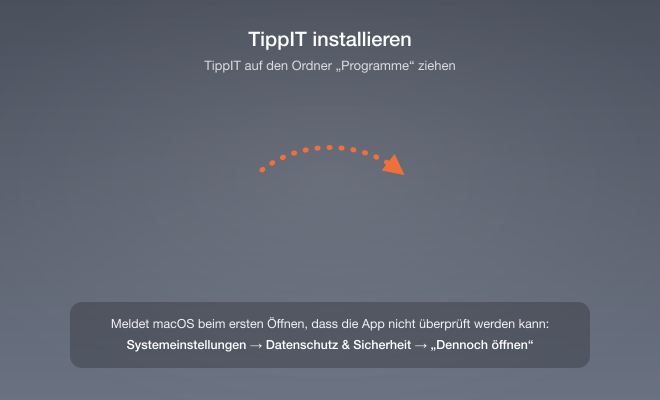
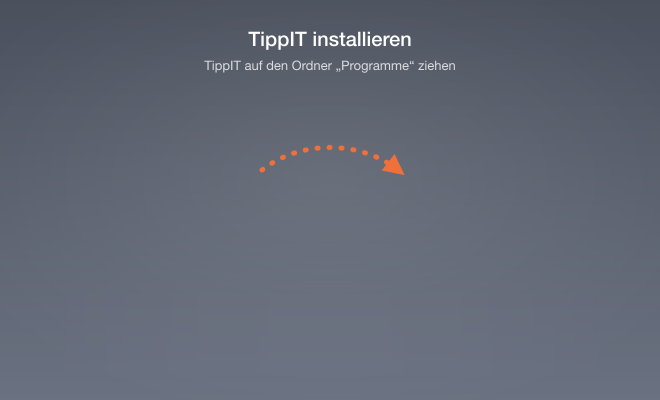
feat(mac): Releases mit Developer ID signieren und notarisieren
bundle-macos signiert App und DMG mit der Developer ID (Hardened Runtime,
keine Entitlements), notarisiert und heftet die Tickets an und prueft App,
Update-Tarball und DMG. Secrets wie in Xuoon/boats im Environment release.

Uebergang: Der Tauri-Updater prueft nur die minisign-Signatur, ad-hoc-
Installationen bekommen das Update normal. "Freigeben" entfernt vorher
einen nicht greifenden Bedienungshilfen-Eintrag und ersetzt "Reparieren".
Der Hinweis "Dennoch oeffnen" verschwindet aus README und DMG-Hintergrund.

Changed region(s): [[0.0909, 0.75, 0.9091, 0.93]]

diff --git a/src/lib/components/settings/permissions-pane.svelte b/src/lib/components/settings/permissions-pane.svelte
@@ -7,7 +7,6 @@
     type PermissionStatus,
     permissionStatus,
     requestInputPermission,
-    resetInputPermission,
   } from "#lib/api.ts";
   import Icon from "#lib/icon.svelte";
 
@@ -85,18 +84,19 @@
     }
   }
 
-  const request = () => run(requestInputPermission);
-  const openSettings = () => run(openPermissionSettings);
-  const openClipboard = () => run(openClipboardSettings);
-  const repair = () =>
+  // Entfernt vorher einen nicht greifenden Eintrag (alte Signatur), siehe
+  // `permissions::request_input_permission`.
+  const request = () =>
     run(async () => {
       repairError = "";
       try {
-        await resetInputPermission();
+        await requestInputPermission();
       } catch (e) {
         repairError = String(e);
       }
     });
+  const openSettings = () => run(openPermissionSettings);
+  const openClipboard = () => run(openClipboardSettings);
 
   async function copy(text: string) {
     copyFailed = false;
@@ -187,15 +187,6 @@
         </span>
         <button class="btn" disabled={busy} onclick={openSettings} type="button">
           <Icon name="external" size={14} />Öffnen
-        </button>
-      </div>
-      <div class="row">
-        <span class="row-label">
-          Eintrag reparieren
-          <span class="row-hint">Wenn TippIT dort „An“ steht und trotzdem nicht tippt</span>
-        </span>
-        <button class="btn" disabled={busy} onclick={repair} type="button">
-          <Icon name="restore" size={14} />Reparieren
         </button>
       </div>
       {#if repairError}

diff --git a/src/lib/api.ts b/src/lib/api.ts
@@ -371,7 +371,11 @@ export interface PermissionStatus {
 export const permissionStatus = () =>
   invoke<PermissionStatus>("permission_status");
 
-/** Löst den Systemdialog der Bedienungshilfen aus; liefert den aktuellen Status. */
+/**
+ * Entfernt einen nicht greifenden Bedienungshilfen-Eintrag und löst den
+ * Systemdialog aus; liefert den aktuellen Status. Wirft, wenn das Entfernen
+ * scheitert (der Dialog kam trotzdem).
+ */
 export const requestInputPermission = () =>
   invoke<boolean>("request_input_permission");
 
@@ -382,8 +386,5 @@ export const openPermissionSettings = () =>
 export const openClipboardSettings = () =>
   invoke<void>("open_clipboard_settings");
 
-/** Veralteten Bedienungshilfen-Eintrag entfernen und neu anfragen. */
-export const resetInputPermission = () =>
-  invoke<boolean>("reset_input_permission");
 export const updateWindowReady = () => invoke<void>("update_window_ready");
 export const closeUpdateWindow = () => invoke<void>("close_update_window");

diff --git a/src-tauri/src/platform/mac.rs b/src-tauri/src/platform/mac.rs
@@ -403,9 +403,10 @@ pub fn open_clipboard_permission_settings() -> anyhow::Result<()> {
     open_external("x-apple.systempreferences:com.apple.settings.PrivacySecurity.extension")
 }
 
-/// Veralteten Bedienungshilfen-Eintrag entfernen. Nach einem Update oder
-/// Rebuild steht TippIT dort oft noch auf „An", der Eintrag gilt aber für den
-/// alten Code-Hash; erst ein Reset lässt macOS neu fragen.
+/// Bedienungshilfen-Eintrag entfernen. Ein Eintrag aus einer anderen Signatur
+/// steht noch auf „An", gilt aber nicht für den laufenden Code; erst ohne ihn
+/// fragt macOS neu. Ad-hoc-signiert hängt er am Code-Hash und veraltet mit
+/// jedem Build, mit Developer ID an Team und Bundle-ID und übersteht Updates.
 pub fn reset_input_permission(bundle_id: &str) -> anyhow::Result<()> {
     let output = std::process::Command::new("/usr/bin/tccutil")
         .args(["reset", "Accessibility", bundle_id])
@@ -1148,11 +1149,12 @@ fn tone_wav(freq: u32, duration_ms: u32) -> Vec<u8> {
 // Schlüsselschutz at-rest
 // ---------------------------------------------------------------------------
 
-// Bewusst KEIN Keychain: bei ad-hoc-signierten Builds bindet die Keychain-ACL
-// an den Binary-Hash — nach jedem Update käme ein Passwort-Prompt. Schutzniveau
-// entspricht DPAPI im User-Scope (gleicher User liest mit): 0600-Rechte
-// (`write_key_file`) + FileVault decken denselben Angriffsvektor
-// (fremde User, Offline-Zugriff) ab.
+// Bewusst KEIN Keychain: `key.bin` hängt so an keiner Code-Signatur, lokale
+// ad-hoc-Builds und der Wechsel auf die Developer ID lesen dieselbe Datei
+// (ad-hoc bände die Keychain-ACL an den Binary-Hash, nach jedem Build käme ein
+// Passwort-Prompt). Schutzniveau entspricht DPAPI im User-Scope (gleicher User
+// liest mit): 0600-Rechte (`write_key_file`) + FileVault decken denselben
+// Angriffsvektor (fremde User, Offline-Zugriff) ab.
 
 pub fn protect(data: &[u8]) -> anyhow::Result<Vec<u8>> {
     Ok(data.to_vec())

diff --git a/src-tauri/src/permissions.rs b/src-tauri/src/permissions.rs
@@ -50,10 +50,21 @@ pub fn permission_status(app: AppHandle) -> PermissionStatus {
     }
 }
 
-/// Systemdialog auslösen; liefert den aktuellen Status.
-#[tauri::command]
-pub fn request_input_permission() -> bool {
-    platform::request_input_permission()
+/// Systemdialog auslösen; liefert den aktuellen Status. Fehlt die Freigabe,
+/// wird vorher der Eintrag entfernt: Ein Eintrag aus einer anderen Signatur
+/// (ad-hoc-signierte Versionen vor dem Wechsel auf die Developer ID, lokale
+/// Builds) steht in den Systemeinstellungen auf „An“, greift aber nicht, und
+/// macOS fragt erst ohne ihn neu. Der Dialog kommt auch, wenn das Entfernen
+/// scheitert; der Fehler geht für den Terminal-Hinweis ans Frontend.
+#[tauri::command(async)]
+pub fn request_input_permission(app: AppHandle) -> Result<bool, String> {
+    let reset = if platform::input_permission_granted() {
+        Ok(())
+    } else {
+        platform::reset_input_permission(&app.config().identifier)
+    };
+    let trusted = platform::request_input_permission();
+    reset.map(|()| trusted).map_err(|e| e.to_string())
 }
 
 #[tauri::command]
@@ -64,12 +75,4 @@ pub fn open_permission_settings() -> Result<(), String> {
 #[tauri::command]
 pub fn open_clipboard_settings() -> Result<(), String> {
     platform::open_clipboard_permission_settings().map_err(|e| e.to_string())
-}
-
-/// Veralteten Eintrag entfernen und gleich neu anfragen, damit TippIT mit der
-/// laufenden Signatur wieder in der Liste steht. Liefert den Status danach.
-#[tauri::command(async)]
-pub fn reset_input_permission(app: AppHandle) -> Result<bool, String> {
-    platform::reset_input_permission(&app.config().identifier).map_err(|e| e.to_string())?;
-    Ok(platform::request_input_permission())
 }

diff --git a/src-tauri/src/lib.rs b/src-tauri/src/lib.rs
@@ -157,7 +157,6 @@ pub fn run() {
             permissions::request_input_permission,
             permissions::open_permission_settings,
             permissions::open_clipboard_settings,
-            permissions::reset_input_permission,
             updater::check_for_update,
             updater::pending_update,
             updater::install_update,

diff --git a/.github/SIGNING.md b/.github/SIGNING.md
@@ -1,6 +1,6 @@
-# Windows-Signatur (Ops-Runbook)
+# Signatur (Ops-Runbook)
 
-[release.yml](workflows/release.yml) signiert das Windows-Release mit Azure Artifact Signing; Zugriff nur über das Environment `release`.
+[release.yml](workflows/release.yml) signiert das Windows-Release mit Azure Artifact Signing und das macOS-Release mit der Apple Developer ID samt Notarisierung; Zugriff nur über das Environment `release`.
 
 ## Läufe
 
@@ -8,8 +8,8 @@
 - Tauri signiert über `bundle.windows.signCommand` App-EXE, NSIS-Plugins, Uninstaller und Setup und erzeugt die Updater-Signatur (`.sig`) erst danach über das signierte Setup. Das `signCommand` steht nur in der `--config`-Datei des Release-Laufs, lokale Builds und Testbuilds bleiben unsigniert.
 - Signiert wird mit SignTool und Microsofts Artifact-Signing-Client (dlib), beide als NuGet-Paket mit fester Version und SHA256 in `release.yml`. Die Anmeldung läuft per OIDC über `azure/login`; die dlib nutzt nur die Azure-CLI-Anmeldung.
 - Der Lauf prüft Setup und die darin enthaltene `tippit.exe` mit `Get-AuthenticodeSignature`: gültig, Zeitstempel vorhanden, Subject gleich `AZURE_ARTIFACT_SIGNING_PUBLISHER_SUBJECT`.
-- macOS bleibt ad-hoc signiert und folgt derselben Trennung: `build-macos` kompiliert ohne Secrets, `bundle-macos` (Environment `release`, nur für den Updater-Schlüssel) bündelt die per Prüfsumme geprüfte Binärdatei. In beiden Bündel-Jobs läuft `bun install` ohne Installationsskripte.
-- Testbuilds (`build.yml`, Label `build` oder Handstart) nutzen das Environment nicht und sind unsigniert.
+- macOS folgt derselben Trennung: `build-macos` kompiliert ohne Secrets, `bundle-macos` (Environment `release`) bündelt die per Prüfsumme geprüfte Binärdatei, signiert und notarisiert, siehe [macOS](#macos). In beiden Bündel-Jobs läuft `bun install` ohne Installationsskripte.
+- Testbuilds (`build.yml`, Label `build` oder Handstart) nutzen das Environment nicht und sind unsigniert (macOS: ad hoc).
 
 ## Azure-Einrichtung
 
@@ -37,7 +37,8 @@ Deployment branches: nur `main`. Das Repo ist öffentlich, „Required reviewers
 `AZURE_ARTIFACT_SIGNING_PROFILE`, `AZURE_ARTIFACT_SIGNING_PUBLISHER_SUBJECT`.
 
 **Secrets:** `AZURE_CLIENT_ID`, `AZURE_TENANT_ID`, `AZURE_SUBSCRIPTION_ID` (kein
-Client-Secret, OIDC) und `TAURI_SIGNING_PRIVATE_KEY` (Updater, auch für macOS).
+Client-Secret, OIDC), `TAURI_SIGNING_PRIVATE_KEY` (Updater, auch für macOS) und
+die sechs Apple-Secrets aus [macOS](#macos).
 Fehlt ein Wert, bricht `sign-windows` bzw. `bundle-macos` im ersten Schritt ab.
 
 ## Störungen
@@ -63,3 +64,91 @@ hält ausgelieferte Setups auch nach Ablauf gültig.
 Echter Termin ist die **Identitätsüberprüfung der Organisation** (`innov8-IT`),
 gültig bis **19.11.2028**. Läuft sie aus, gibt es keine neuen Zertifikate und
 `sign-windows` scheitert. Verlängert wird sie im Signing-Konto unter „Identitätsüberprüfungen“.
+
+## macOS
+
+Signiert wird mit **Developer ID Application: Sven Labitzki (955U4N2536)**,
+dem Einzelperson-Account von Sven. Das Zertifikat gilt teamweit und bis
+**07.12.2027**; es ist dasselbe wie in `Xuoon/boats`. Apple erlaubt höchstens
+fünf Developer-ID-Zertifikate, deshalb kein eigenes je App anlegen.
+Notarisiert wird mit einem App-Store-Connect-Teamschlüssel nur für dieses Repo
+(`tippit-notarize`, Rolle Entwickler), damit er sich ohne Folgen für andere
+Apps widerrufen lässt. Zertifikat (.p12 mit Passwort) und Schlüssel (.p8) liegen
+nur in Bitwarden.
+
+**Secrets im Environment `release`** (Namen wie in `Xuoon/boats`, die
+Zuordnung auf Tauris Variablen macht `bundle-macos`):
+
+| Secret | Inhalt | Tauri-Variable |
+| --- | --- | --- |
+| `CSC_LINK` | .p12 als Base64 | `APPLE_CERTIFICATE` |
+| `CSC_KEY_PASSWORD` | Passwort der .p12 | `APPLE_CERTIFICATE_PASSWORD` |
+| `APPLE_API_KEY` | Inhalt der .p8 | Datei, Pfad in `APPLE_API_KEY_PATH` |
+| `APPLE_API_KEY_ID` | Schlüssel-ID | `APPLE_API_KEY` |
+| `APPLE_API_ISSUER` | Issuer-ID | `APPLE_API_ISSUER` |
+| `APPLE_TEAM_ID` | `955U4N2536` | `APPLE_SIGNING_IDENTITY` (Tauri prüft, dass das Zertifikat dazu passt) |
+
+**Ablauf in `bundle-macos`:** `tauri bundle` importiert das Zertifikat in einen
+temporären Schlüsselbund, signiert App und DMG mit Hardened Runtime, notarisiert
+die App per `notarytool`, heftet das Ticket an und packt erst danach
+`*.app.tar.gz` samt Updater-Signatur. Danach notarisiert der Job das DMG und
+heftet auch dort das Ticket an. Der letzte Schritt prüft App, App aus dem
+Update-Tarball und DMG: Developer-ID-Authority, Team-ID, Hardened Runtime,
+sicherer Zeitstempel, `stapler validate` und, wenn Gatekeeper auf dem Runner an
+ist, `spctl` mit „Notarized Developer ID“.
+
+**Entitlements:** keine. TippIT braucht unter Hardened Runtime keine Ausnahme:
+kein JIT (WebKit rechnet im eigenen Prozess), keine nachgeladenen Bibliotheken,
+Bedienungshilfen und CGEventTap laufen über TCC. Die ad-hoc-Releases bis 2.3.0
+liefen bereits mit Hardened Runtime ohne Entitlements.
+
+**Lokal und in Testbuilds** bleibt `signingIdentity` aus `tauri.macos.conf.json`
+(`-`, ad hoc); die Developer ID kommt nur über `APPLE_SIGNING_IDENTITY` im
+Release-Lauf.
+
+### Übergang von ad hoc
+
+- Updates: Der Tauri-Updater prüft nur die minisign-Signatur aus `latest.json`
+  und tauscht das Bundle per Rename, eine Code-Signatur vergleicht er nicht.
+  Ad-hoc-Installationen bekommen das erste signierte Update deshalb normal.
+- Bedienungshilfen: Der alte Eintrag gilt für den ad-hoc-Hash und greift nach
+  dem Update nicht mehr. TippIT öffnet beim Start die Berechtigungen; „Freigeben“
+  entfernt den alten Eintrag und fragt neu. Ab dann übersteht die Freigabe Updates.
+- Zwischenablage-Freigabe (ab macOS 15.4) kann ebenso einmal neu gefragt werden.
+- Keychain: TippIT legt keine Einträge an (`key.bin` ist eine Datei), es gibt
+  nichts, das nach dem Wechsel unlesbar würde. Historie und Einstellungen bleiben.
+
+### Prüfen nach einem Release
+
+```bash
+codesign -dv --verbose=4 /Applications/TippIT.app
+spctl -a -vvv /Applications/TippIT.app
+xcrun stapler validate /Applications/TippIT.app
+```
+
+Erwartet: `Authority=Developer ID Application: Sven Labitzki (955U4N2536)`,
+`TeamIdentifier=955U4N2536`, `flags=0x10000(runtime)`, eine `Timestamp=`-Zeile;
+`spctl` meldet `accepted` und `source=Notarized Developer ID`; `stapler` meldet
+`The validate action worked!`.
+
+### Störungen (macOS)
+
+**„certificate … does not match provided identity“:** `CSC_LINK` gehört nicht
+zur Team-ID in `APPLE_TEAM_ID`.
+
+**`security import` scheitert:** `CSC_KEY_PASSWORD` passt nicht zur .p12, oder
+`CSC_LINK` ist nicht die Base64-Form der Datei.
+
+**Notarisierung „Invalid“:** Der Job gibt das `notarytool`-Log aus; meist fehlt
+Hardened Runtime oder der Zeitstempel an einer Binärdatei.
+
+**401 von `notarytool`:** Schlüssel widerrufen, oder ID, Issuer und .p8 gehören
+nicht zusammen.
+
+### Fristen (macOS)
+
+Das Developer-ID-Zertifikat läuft am **07.12.2027** ab. Ausgelieferte Builds
+bleiben dank Zeitstempel und Notarisierung gültig, neue Releases scheitern.
+Ein neues Developer-ID-Zertifikat desselben Accounts braucht nur neue Werte in `CSC_LINK` und `CSC_KEY_PASSWORD`, hier
+und in `Xuoon/boats`; die Bedienungshilfen-Freigabe bleibt, weil sie an Team und
+Bundle-ID hängt. Dazu die Apple-Developer-Mitgliedschaft jährlich verlängern.

diff --git a/README.md b/README.md
@@ -34,7 +34,7 @@ cargo test            # Unit-Tests (in src-tauri/)
 
 Ein Push auf `main` mit derselben erhöhten Version in `src-tauri/tauri.conf.json`, `src-tauri/Cargo.toml` und `package.json` erzeugt automatisch einen GitHub-Release mit NSIS-Setup (Windows), DMG + Update-Tarball (macOS, nur Apple Silicon) und einem gemeinsamen `latest.json`; die Release-Notes kommen aus dem passenden `CHANGELOG.md`-Abschnitt. Ohne Versionssprung wird kein Release erstellt. Testbuilds ohne Release entstehen über den Workflow „Build“: im Pull Request mit dem Label `build` oder von Hand für einen beliebigen Branch; die Installer liegen dann als Artefakte am Lauf. Der Workflow erwartet den privaten Updater-Schlüssel im Repository-Secret `TAURI_SIGNING_PRIVATE_KEY`.
 
-Das NSIS-Setup beendet eine laufende TippIT-Instanz automatisch und räumt bei Deinstallation den Autostart-Eintrag auf. Updates werden vor der Installation mit dem eingebetteten öffentlichen Schlüssel geprüft. Die macOS-Builds sind nicht notariell beglaubigt: Beim ersten Öffnen des DMG-Installs unter macOS 14 und älter Rechtsklick → „Öffnen", ab macOS 15 nach dem ersten Startversuch unter Systemeinstellungen → Datenschutz & Sicherheit → „Dennoch öffnen" (danach übernehmen die signierten In-App-Updates).
+Das NSIS-Setup beendet eine laufende TippIT-Instanz automatisch und räumt bei Deinstallation den Autostart-Eintrag auf. Updates werden vor der Installation mit dem eingebetteten öffentlichen Schlüssel geprüft. Releases sind signiert: Windows per Authenticode, macOS mit Developer ID (Sven Labitzki) und von Apple notarisiert, das DMG öffnet ohne Umweg über „Dennoch öffnen". Einrichtung und Störungen: [.github/SIGNING.md](.github/SIGNING.md). Testbuilds und lokale Builds bleiben unsigniert bzw. unter macOS ad hoc signiert.
 
 Daten & Logs: `~/.labi/tippit/` bzw. `%USERPROFILE%\.labi\tippit\` (`settings.json`, `key.bin`, `history.db`, `app-icons/`, `logs/`). Der Ordner `.labi` wird unter Windows ausgeblendet.
 

diff --git a/AGENTS.md b/AGENTS.md
@@ -43,7 +43,10 @@ Tray-App für Windows und macOS (nur Apple Silicon), Rust + Tauri v2 + Svelte 5 
 ## macOS
 
 - Nur `aarch64-apple-darwin`; Updater-Key `darwin-aarch64`.
-- Builds sind ad hoc signiert: die Bedienungshilfen-Freigabe hängt am Binary-Hash und gilt je Build neu. Den Systemdialog löst nur eine Nutzeraktion in den Einstellungen aus (`platform::request_input_permission`); Start und Tippen prüfen nur. Aus demselben Grund kein Keychain für `key.bin`.
+- Releases signiert und notarisiert `release.yml` mit der Developer ID von Sven Labitzki (Team `955U4N2536`, Hardened Runtime, keine Entitlements nötig), siehe [.github/SIGNING.md](.github/SIGNING.md). Lokale und Testbuilds bleiben ad hoc (`signingIdentity: "-"`).
+- Die Bedienungshilfen-Freigabe hängt an der Signatur: mit Developer ID an Team und Bundle-ID (übersteht Updates), ad hoc am Binary-Hash (gilt je Build neu). „Freigeben“ (`permissions::request_input_permission`) entfernt vorher einen nicht greifenden Eintrag; den Systemdialog löst nur diese Nutzeraktion aus, Start und Tippen prüfen nur. Achtung: in einem lokalen Build entfernt das auch die Freigabe der installierten Release-Version (gleiche Bundle-ID).
+- Der Tauri-Updater prüft nur die minisign-Signatur, nicht die Code-Signatur: Updates zwischen ad hoc und Developer ID gehen in beide Richtungen.
+- `key.bin` bleibt eine Datei (0600), kein Keychain: so hängt sie an keiner Code-Signatur.
 - Transparente Fenster brauchen das Tauri-Feature `macos-private-api` plus `app.macOSPrivateApi`.
 - AppKit-Aufrufe in `platform/mac.rs` laufen meist auf Rust-Threads ohne Autorelease-Pool: den Rumpf in `objc2::rc::autoreleasepool` hüllen, sonst bleibt jedes autoreleaste Objekt für immer liegen.
 

diff --git a/CHANGELOG.md b/CHANGELOG.md
@@ -2,6 +2,14 @@
 
 Alle nennenswerten Änderungen an TippIT. Format angelehnt an [Keep a Changelog](https://keepachangelog.com/de/1.1.0/), Versionierung nach [SemVer](https://semver.org/lang/de/).
 
+## [Unreleased]
+
+### Geändert
+
+- **macOS-Version signiert und notarisiert**: TippIT ist mit der Developer ID von Sven Labitzki signiert und von Apple geprüft. Das DMG öffnet ohne „Dennoch öffnen“, das Installationsfenster zeigt den Hinweis dazu nicht mehr
+- **Bedienungshilfen einmal neu freigeben**: Nach dem Update auf diese Version greift die alte Freigabe nicht mehr, TippIT öffnet dafür die Berechtigungen. „Freigeben“ entfernt den alten Eintrag selbst und fragt neu; danach bleibt die Freigabe auch über künftige Updates erhalten
+- **Berechtigungen**: „Eintrag reparieren“ entfällt, „Freigeben“ erledigt das mit
+
 ## [2.3.0] – 2026-11-06
 
 Die Suche in der Historie stellt das Passendste nach oben: erinnerte Sätze finden ihren Eintrag auch mit fehlenden Wörtern und Tippfehlern. Neu und ab Werk aus ist die Suche nach Bedeutung, die mit einem kleinen Modell auf dem Gerät auch Einträge ohne gemeinsame Wörter findet.
